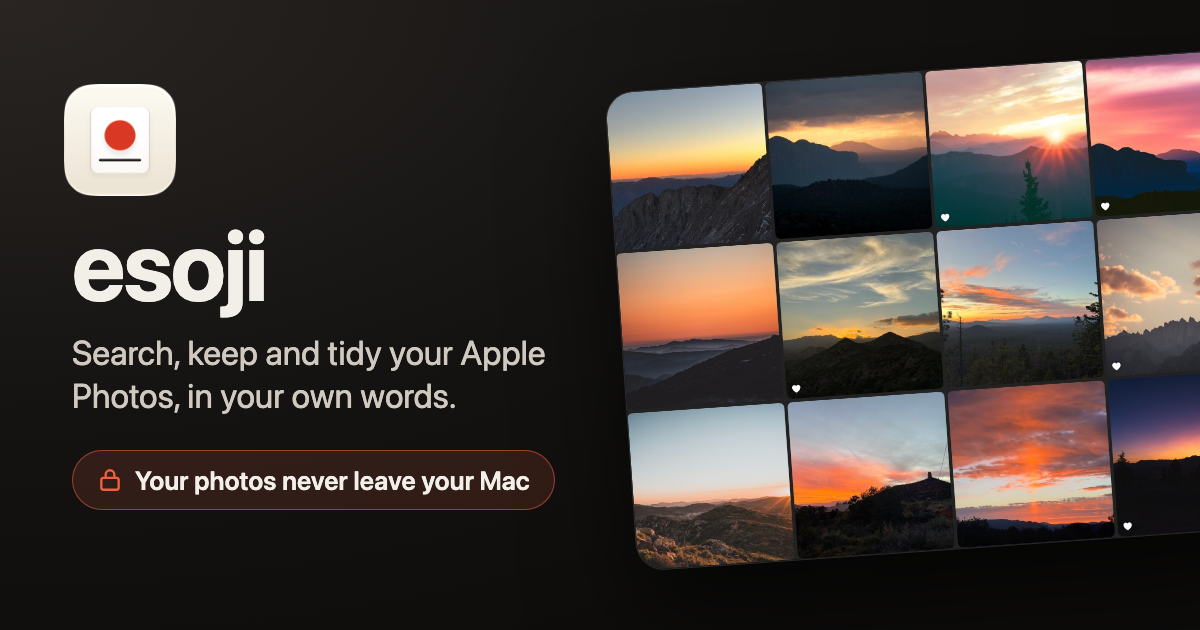
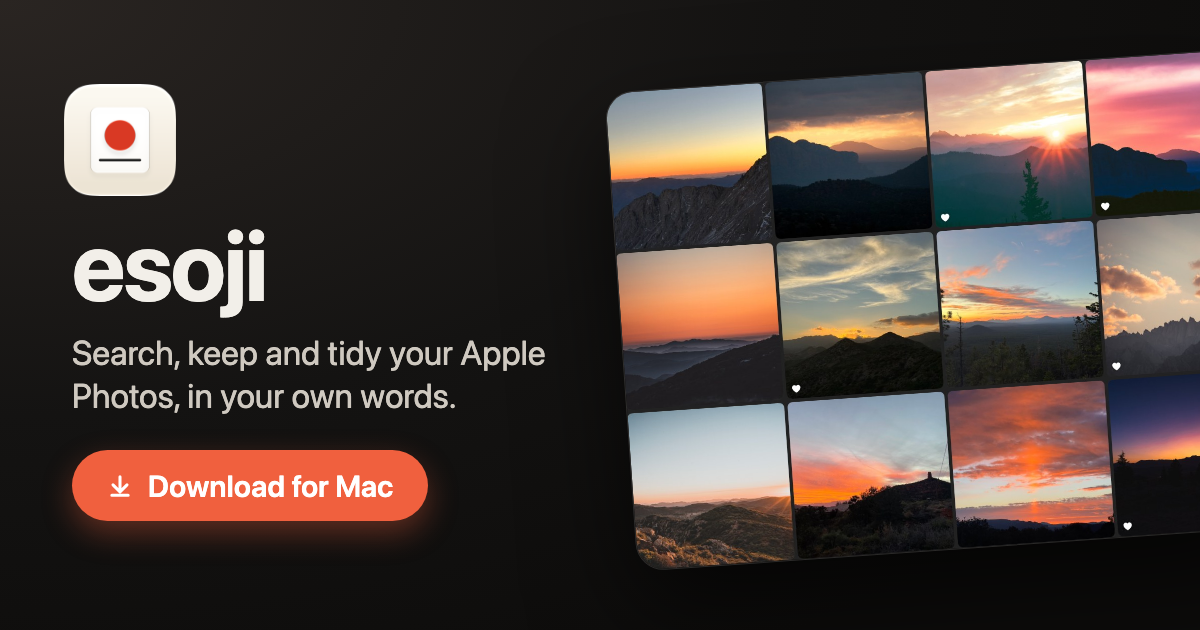
Download page

Changed region(s): [[0.0308, 0.6937, 0.4625, 0.8746]]

diff --git a/index.html b/index.html
@@ -12,14 +12,14 @@
 <meta property="og:url" content="https://santekotturi.github.io/esoji/">
 <meta property="og:title" content="esoji: find, keep and tidy the photos that matter">
 <meta property="og:description" content="A Mac app on top of Apple Photos. Search in your own words, get suggestions for hearts and albums, clear out duplicates. Your photos never leave your Mac.">
-<meta property="og:image" content="https://santekotturi.github.io/esoji/og.png">
+<meta property="og:image" content="https://santekotturi.github.io/esoji/og.png?v=2">
 <meta property="og:image:width" content="1200">
 <meta property="og:image:height" content="630">
-<meta property="og:image:alt" content="esoji: search, keep and tidy your Apple Photos. Your photos never leave your Mac.">
+<meta property="og:image:alt" content="esoji: search, keep and tidy your Apple Photos, in your own words. Download for Mac.">
 <meta name="twitter:card" content="summary_large_image">
 <meta name="twitter:title" content="esoji: find, keep and tidy the photos that matter">
 <meta name="twitter:description" content="Search your Apple Photos in your own words. Your photos never leave your Mac.">
-<meta name="twitter:image" content="https://santekotturi.github.io/esoji/og.png">
+<meta name="twitter:image" content="https://santekotturi.github.io/esoji/og.png?v=2">
 <link rel="icon" href="og-icon.png">
 <style>
   :root {
